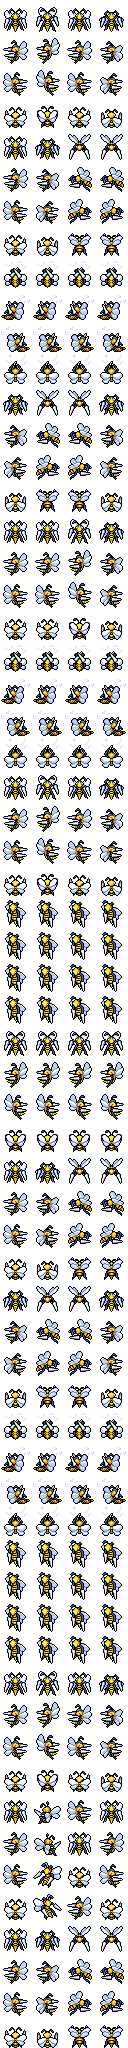
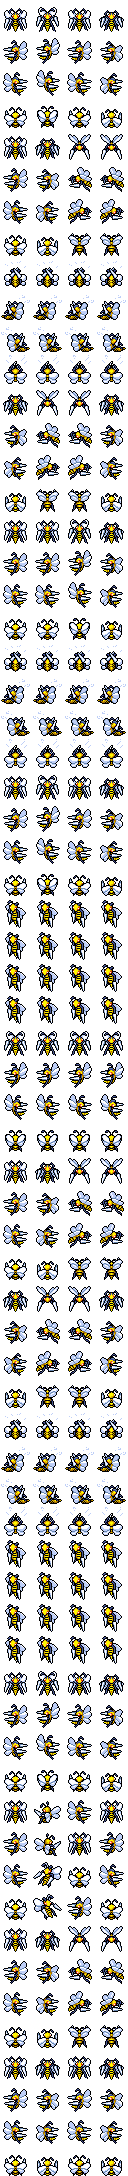
iteration 4

diff --git a/assets/followers/bake_pmd.py b/assets/followers/bake_pmd.py
@@ -51,6 +51,9 @@ EXTRA_POSES = [
     ("freeze", ("Sit", "Idle"), True, "idle"),
     ("confuse", ("Rotate", "Tumble", "LostBalance"), True, "idle"),
     ("float", ("Float", "Hop", "Idle"), True, "dodge"),
+    # Last and optional: skip when the pack has no FlapAround/Hover so
+    # Charizard does not grow a dummy 17th block.
+    ("flap", ("FlapAround", "Hover"), True, None),
 ]
 
 PREFER_NAMED = {"idle", "faint"}
@@ -277,6 +280,9 @@ def bake_dir(pack_dir: Path, out_path: Path) -> bool:
                 block, dirs, cols, idxs, fw, fh = baked
                 print(f"  {pose}: {anim['source']} {fw}x{fh} x{cols}/{dirs} frames={idxs}")
             else:
+                if fallback is None:
+                    print(f"  {pose}: skip")
+                    continue
                 src = by_pose.get(fallback) or by_pose.get("walk")
                 if not src:
                     break

diff --git a/README.md b/README.md
@@ -95,7 +95,7 @@ So levels stay hidden for the same reason as HP: keep decisions grounded in what
   the same feel (not extra toggles).
 - **Reactive Defense:** Focus-meter reactions under fire — **Commit / Dodge / Take Cover / Brace / Entrench**. Toggle **REACTIVE DEF**; pick how often the menu appears via **REACT MENU** (ALWAYS / THREAT / OFF). Trainer foes still auto-react; your physical **COUNTER** openings and **Again!** remain.
 - **Field Battles:** Wild and trainer single battles can stay on the live map (**BATTLE STAGE = FIELD**), with both Pokémon represented by grid-tracked overworld sprites while the normal battle rules and menus remain in control.
-- **Field choreography:** Contact slashes, projectiles, beams, area rings, and status effects play in world space; switching recalls the old Pokémon before the replacement appears; Poké Balls arc toward wild targets and resolve their shakes/capture on the field.
+- **Field choreography:** Contact slashes, projectiles, beams, area rings, and status effects play in world space; pad battlers use this mod’s baked 32px combat kits (walk, idle, dodge, brace, physical, special, hit, faint, plus charge / jump / counter / miss / status / flap when present); switching recalls the old Pokémon before the replacement appears; Poké Balls arc toward wild targets and resolve their shakes/capture on the field.
 
 ## Mechanics
 
@@ -171,16 +171,23 @@ remain on their normal presentation path.
   from movement. The map itself is never edited.
 - Each Pokémon owns a tracked pad cell; pixel movement is derived from that cell.
 - Idle Pokémon use a gentle vertical overworld-style bob without horizontal sway.
-- Physical moves step toward the target, special/status moves cast in place,
-  and hits recoil or faint without changing battle calculations.
+- Physical moves step toward the target, special/status moves cast in place
+  (Charge hold, then Shoot when the bolt leaves), and hits recoil or faint
+  without changing battle calculations.
+- Pad battlers (player lead and foe) prefer this mod’s 4-facing combat kits
+  in `assets/followers/follower_XXX.png`. Overworld followers behind the
+  player still come from Wilds / PokéPC. Layout: [`assets/follower-kit.md`](assets/follower-kit.md).
+  Bake PMD Collab packs with `assets/followers/bake_pmd.py` — never load
+  `AnimData.xml` or `*-Anim.png` in a fight (those strips wedge the 3D map).
+  See [`assets/followers/pmd/README.md`](assets/followers/pmd/README.md).
 - Switches use recall/send-out scale animations. Capture throws and special-move
   projectiles are overworld entities, so they stay aligned with the active
   world camera.
 - `PokePCFollowers_VoxelMerge`, `FOLLOWERS_EX`, or **Wilds of Kanto** supplies
-  overworld sheets. **FIELD SPRITES** picks the set: `AUTO` matches Wilds'
-  Sprite Style when that mod is loaded, otherwise GSC followers. `GSC` /
-  `HGSS` / `POKEDEX` force a pack. A visible placeholder is used if no art is
-  found.
+  overworld sheets when a kit is missing. **FIELD SPRITES** picks that fallback:
+  `AUTO` matches Wilds' Sprite Style when that mod is loaded, otherwise GSC
+  followers. `GSC` / `HGSS` / `POKEDEX` force a pack. A visible placeholder is
+  used if no art is found.
 - Hybrid voxel mode is preserved: the voxelized map remains active while the
   Pokémon and generic FIELD effects use animated 2D overworld sprites. FIELD
   suppresses duplicate staged arenas. On battle exit the pre-battle voxel
@@ -195,7 +202,7 @@ remain on their normal presentation path.
 | Option | Default | Description |
 |--------|---------|-------------|
 | **BATTLE STAGE** | FIELD | `FIELD` keeps wild/trainer singles on the live map; `AUTO` leaves other presentation mods alone |
-| **FIELD SPRITES** | AUTO | Overworld battler art. `AUTO` follows Wilds of Kanto Sprite Style when that mod is on, else GSC followers. `GSC` / `HGSS` / `POKEDEX` pick a pack |
+| **FIELD SPRITES** | AUTO | Fallback overworld pack when this mod has no kit. `AUTO` follows Wilds of Kanto Sprite Style when that mod is on, else GSC followers. `GSC` / `HGSS` / `POKEDEX` pick a pack |
 | **MOVE HUD** | CLASSIC | FIELD fight menu. `CLASSIC` is a compact full-width 2×2 with U/R/L/D labels (D-pad + **A**). `DIAMOND` is the compass with instant-cast |
 | **REACTIVE DEF** | On | Focus reactions (Commit/Dodge/Cover/Brace/Entrench); COUNTER → Again!; trainer foes may mirror |
 | **REACT MENU** | ALWAYS | `ALWAYS` = Focus **REACT!** every damaging hit; `THREAT` = serious hits only; `OFF` = no Focus menu |
@@ -225,6 +232,22 @@ derived mod — if you credit **Anime Realism** / **businessmachines02** and
 link to [this repository](https://github.com/businessmachines02/anime-realism).
 Keep `LICENSE`, and note your changes.
 
+Pad battler art baked from [PMD Collab](https://sprites.pmdcollab.org/) is **not** CC BY. See [Art credits](#art-credits).
+
+## Art credits
+
+FIELD pad kits (`assets/followers/follower_XXX.png`) are baked from the
+[PMD Sprite Repository](https://sprites.pmdcollab.org/) /
+[SpriteCollab](https://github.com/PMDCollab/SpriteCollab). Community frames are
+[CC BY-NC 4.0](https://creativecommons.org/licenses/by-nc/4.0/) (credit the
+artists, non-commercial). Official Explorers-style frames belong to
+**Spike Chunsoft**.
+
+Each unpacked pack keeps its upstream `credits.txt`. A species-by-species
+example (Charmeleon) is in
+[`assets/followers/pmd/README.md`](assets/followers/pmd/README.md). The pad
+never loads those source strips in a fight.
+
 ## Files
 
 - `manifest.json` — mod metadata
@@ -233,7 +256,10 @@ Keep `LICENSE`, and note your changes.
 - `hud/` — hide numbers + EXP/effort rewards
 - `battle/` — battle systems (`rules/` math + pipeline, `chrome/` HUD paint)
 - `field/` — overworld FIELD combat (tile-grid movement tracker)
-- `LICENSE` — CC BY 4.0 (attribution required)
+- `assets/followers/` — baked pad kits (`follower_XXX.png`) plus PMD unpacks
+- `assets/followers/bake_pmd.py` — flatten a PMD pack into a kit
+- `assets/follower-kit.md` — 32px 4-facing sheet layout
+- `LICENSE` — CC BY 4.0 (attribution required; does not cover PMD Collab art)
 - `DIFFERENCES.md` — what this mod changes from vanilla
 - `build.sh` — local zip for testing
 - `.github/workflows/release.yml` — Gen1Recomp launcher release pipeline

diff --git a/assets/follower-kit.md b/assets/follower-kit.md
@@ -152,6 +152,7 @@ Every block uses four frames, left to right.
 | 1664–1791 | 53–56 | Freeze | 4 | Frozen hold. |
 | 1792–1919 | 57–60 | Confuse | 4 | Dizzy wobble. |
 | 1920–2047 | 61–64 | Float | 4 | Flying dodge (Ghost dodge still uses Dodge, paler). |
+| 2048–2175 | 65–68 | Flap | 4 | Optional. FlapAround / Hover while moving (Flying types). |
 
 ## Incremental sizes (32px cells)
 
@@ -175,10 +176,11 @@ Ship a short sheet; extra blocks are optional. Preview greys out poses that are 
 | + freeze | 128×1792 |
 | + confuse | 128×1920 |
 | + float | **128×2048** |
+| + flap | **128×2176** (optional; FlapAround / Hover only) |
 
 ## In-game
 
-`field/fx/sprites.lua` loads a four-column grid from this mod’s follower PNG. Walking uses the top block. Standing uses the Idle block when that block exists; otherwise it uses Walk rest frames. Faint uses the last core block when present, instead of shrinking the walk sprite. Trainer faint plays that crumple, then the recall laser; wild faint holds the last frame and hides. Charge holds while a FIRE NOW shot is on the pad; Shoot plays when it leaves. Jump, counter, and miss use their own rows when present, else Physical. Sleep / freeze / confuse replace standing Idle while afflicted. Flying dodges use Float; Ghost dodges use Dodge paler. If the sheet is taller than walk, dodge, brace, physical, special, and hit play from later blocks when those rows exist. A missing block keeps using the walk frames (with the usual hop and squash), or an earlier combat strip for the extra poses.
+`field/fx/sprites.lua` loads a four-column grid from this mod’s follower PNG. Walking uses the top block. Standing uses the Idle block when that block exists; otherwise it uses Walk rest frames. Faint uses the last core block when present, instead of shrinking the walk sprite. Trainer faint plays that crumple, then the recall laser; wild faint holds the last frame and hides. Charge holds while a FIRE NOW shot is on the pad; Shoot plays when it leaves. Jump, counter, and miss use their own rows when present, else Physical. Sleep / freeze / confuse replace standing Idle while afflicted. Flying dodges use Float; Ghost dodges use Dodge paler. Round bodies and the hop cycle bounce the PMD Hop strip instead of sliding it. Flying types with a FlapAround (or Hover) row sometimes travel on that strip instead of Walk. If the sheet is taller than walk, dodge, brace, physical, special, and hit play from later blocks when those rows exist. A missing block keeps using the walk frames (with the usual hop and squash), or an earlier combat strip for the extra poses.
 
 The game does not flip the right-facing row. It does not load `followers/005/dodge.png` when this grid is in use.
 

diff --git a/assets/followers/pmd/README.md b/assets/followers/pmd/README.md
@@ -65,6 +65,7 @@ Then copy the `*-Anim.png` files from that same `sprite/0005/` folder.
 | Freeze | Sit, Idle |
 | Confuse | Rotate, Tumble, LostBalance |
 | Float | Float, Hop, Idle |
+| Flap (Flying move) | FlapAround, Hover |
 
 Eight-direction sheets use south / east / north / west (skip diagonals). Frame timing comes from `AnimData.xml` (60 ticks per second).
 
